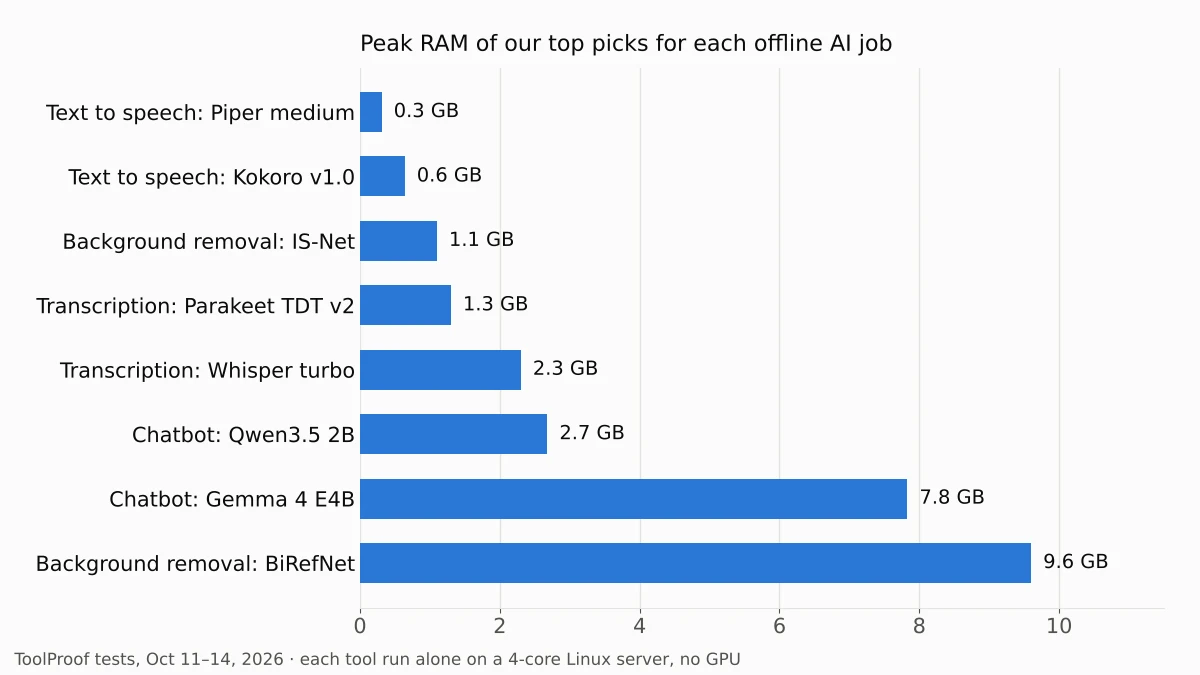
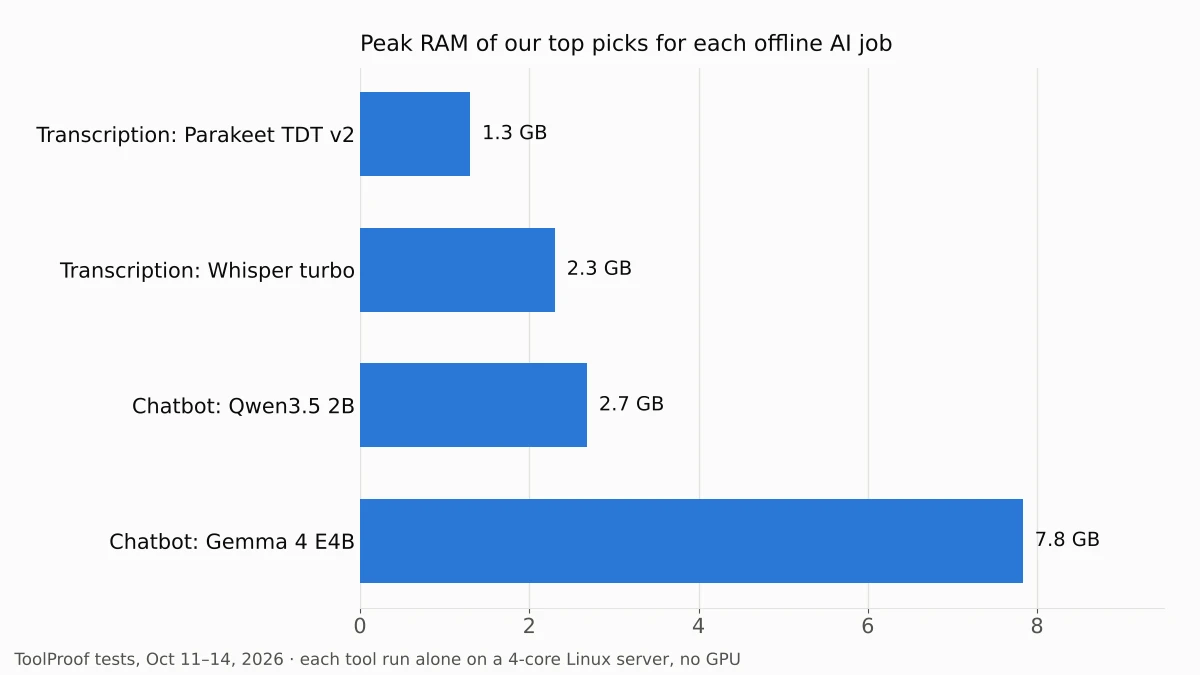
Content: 광고 블로그 OCR·허브 글의 명령줄 내용과 삭제된 글 링크 정리
Claude-Session: https://claude.ai/code/session_01TmDmhizLvmJjGUZFEXLt34

diff --git a/apps/ad-blog/experiment/tests/free-offline-ai-tools/charts.py b/apps/ad-blog/experiment/tests/free-offline-ai-tools/charts.py
@@ -66,18 +66,15 @@ fig.subplots_adjust(left=0.15, right=0.97, top=0.88, bottom=0.12)
 save(fig, 'img/offline-chatbot-memory.webp')
 
 # 3. 허브: 작업별 추천 도구의 최대 메모리 (각 글의 측정값)
+# 2026-10-17: 명령줄 도구(Piper·Kokoro TTS, rembg IS-Net·BiRefNet) 막대 제거, 글 삭제에 따라. 원래 값은 git 기록 참고
 jobs = [
-    ('Text to speech: Piper medium', 0.31, 'free-offline-text-to-speech'),
-    ('Text to speech: Kokoro v1.0', 0.64, 'free-offline-text-to-speech'),
-    ('Background removal: IS-Net', 1.1, 'remove-background-from-image-free-offline'),
     ('Transcription: Parakeet TDT v2', 1.3, 'transcribe-audio-offline-free'),
     ('Transcription: Whisper turbo', 2.3, 'transcribe-audio-offline-free'),
     ('Chatbot: Qwen3.5 2B', S['Qwen3.5-2B']['peak_rss_gb'], 'this test'),
     ('Chatbot: Gemma 4 E4B', S['gemma-4-E4B-it']['peak_rss_gb'], 'this test'),
-    ('Background removal: BiRefNet', 9.6, 'remove-background-from-image-free-offline'),
 ]
 fig, ax = plt.subplots(figsize=(12, 6.75))
-bars(ax, [j[0] for j in jobs], [j[1] for j in jobs], lambda v: f'{v:.1f} GB', 'Peak RAM of our top picks for each offline AI job', 11.5)
+bars(ax, [j[0] for j in jobs], [j[1] for j in jobs], lambda v: f'{v:.1f} GB', 'Peak RAM of our top picks for each offline AI job', 9.5)
 fig.text(0.012, 0.015, 'ToolProof tests, Oct 11–14, 2026 · each tool run alone on a 4-core Linux server, no GPU', fontsize=12, color=INK2)
 fig.subplots_adjust(left=0.3, right=0.97, top=0.9, bottom=0.1)
 save(fig, 'img/offline-ai-tools-memory.webp')

diff --git a/apps/ad-blog/experiment/tests/image-to-text-offline-free/facts.md b/apps/ad-blog/experiment/tests/image-to-text-offline-free/facts.md
@@ -39,3 +39,7 @@
 | RapidOCR 3.10.0·EasyOCR 1.7.2·docTR 1.1.0 Apache 2.0 | PyPI JSON API |
 | EasyOCR 80개 이상 언어 | raw.githubusercontent.com/JaidedAI/EasyOCR/master/README.md |
 | Apple 페이지는 Live Text가 인터넷 없이 되는지 밝히지 않음 → 글에서 오프라인이라고 주장하지 않음 | 위 Apple 문서 2개 |
+
+## 변경 기록
+
+- 2026-10-17: 비개발자 기준(명령줄 금지)에 따라 명령줄 OCR 엔진(Tesseract·RapidOCR·EasyOCR·docTR) 비교 표·결과·추천·설치 단계·What we tested와 이미지 5장 전부 제거. 본문은 Snipping Tool·PowerToys Text Extractor·Live Text·NAPS2(모두 문서 기반, 직접 측정 없음)만 남김. 제목 "Image to Text Offline for Free on Windows and Mac", 설명 교체, thumbnail 삭제, 삭제된 글(PDF to Word·배경 제거·TTS) 링크 정리. 측정 자료(`summary.json`·`results/`)는 보관

diff --git a/apps/ad-blog/experiment/tests/free-offline-ai-tools/facts.md b/apps/ad-blog/experiment/tests/free-offline-ai-tools/facts.md
@@ -45,3 +45,7 @@
 - huggingface.co GGUF 다운로드 가능 (7개 약 17GB, 약 6분)
 - github.com/ggml-org/llama.cpp/releases/latest 403 → llama.cpp 사전 빌드 대신 PyPI `llama-cpp-python` 소스 빌드(약 5분)
 - ollama.com·docs.ollama.com·lmstudio.ai·jan.ai·nomic.ai 접속 가능
+
+## 변경 기록
+
+- 2026-10-17: 명령줄 방법 제거 — Ollama(터미널 단계·`OLLAMA_NO_CLOUD` 환경 변수·모델 이름 열·태그), TTS(Piper·Kokoro)·배경 제거(rembg) 섹션·요약 표 행·rembg 스크린샷, OCR 행·섹션의 Tesseract·docTR 측정값(내장 도구·NAPS2 안내로 교체), 삭제된 글 링크. 작업 수 5→3(첫 문단·설명). `charts.py` 그래프 3(작업별 RAM)에서 Piper·Kokoro·IS-Net·BiRefNet 막대를 빼고 다시 그림(측정값 그대로)

diff --git a/apps/ad-blog/experiment/tests/check-if-image-is-ai-generated/factcheck.md b/apps/ad-blog/experiment/tests/check-if-image-is-ai-generated/factcheck.md
@@ -62,3 +62,7 @@ Reachability note: WebFetch and the shell could NOT open blog.google, synthid.co
 - **openai.com/verify login requirement and OpenAI's "don't crop/convert before checking" tip**: extract only. Dropped (our own test supports the "use the original file" advice).
 - **Gemini Help 100 MB limit and "crop tight around screenshots" tip**: extract only. Dropped.
 - **Platform labels (Meta, YouTube, TikTok, LinkedIn, etc.)**: not verifiable. Dropped; FAQ says we didn't test platforms.
+
+## 변경 기록
+
+- 2026-10-17: 삭제된 글(`remove-background-from-image-free-offline`)로 가는 링크와 rembg PNG 메타데이터 문장 제거
